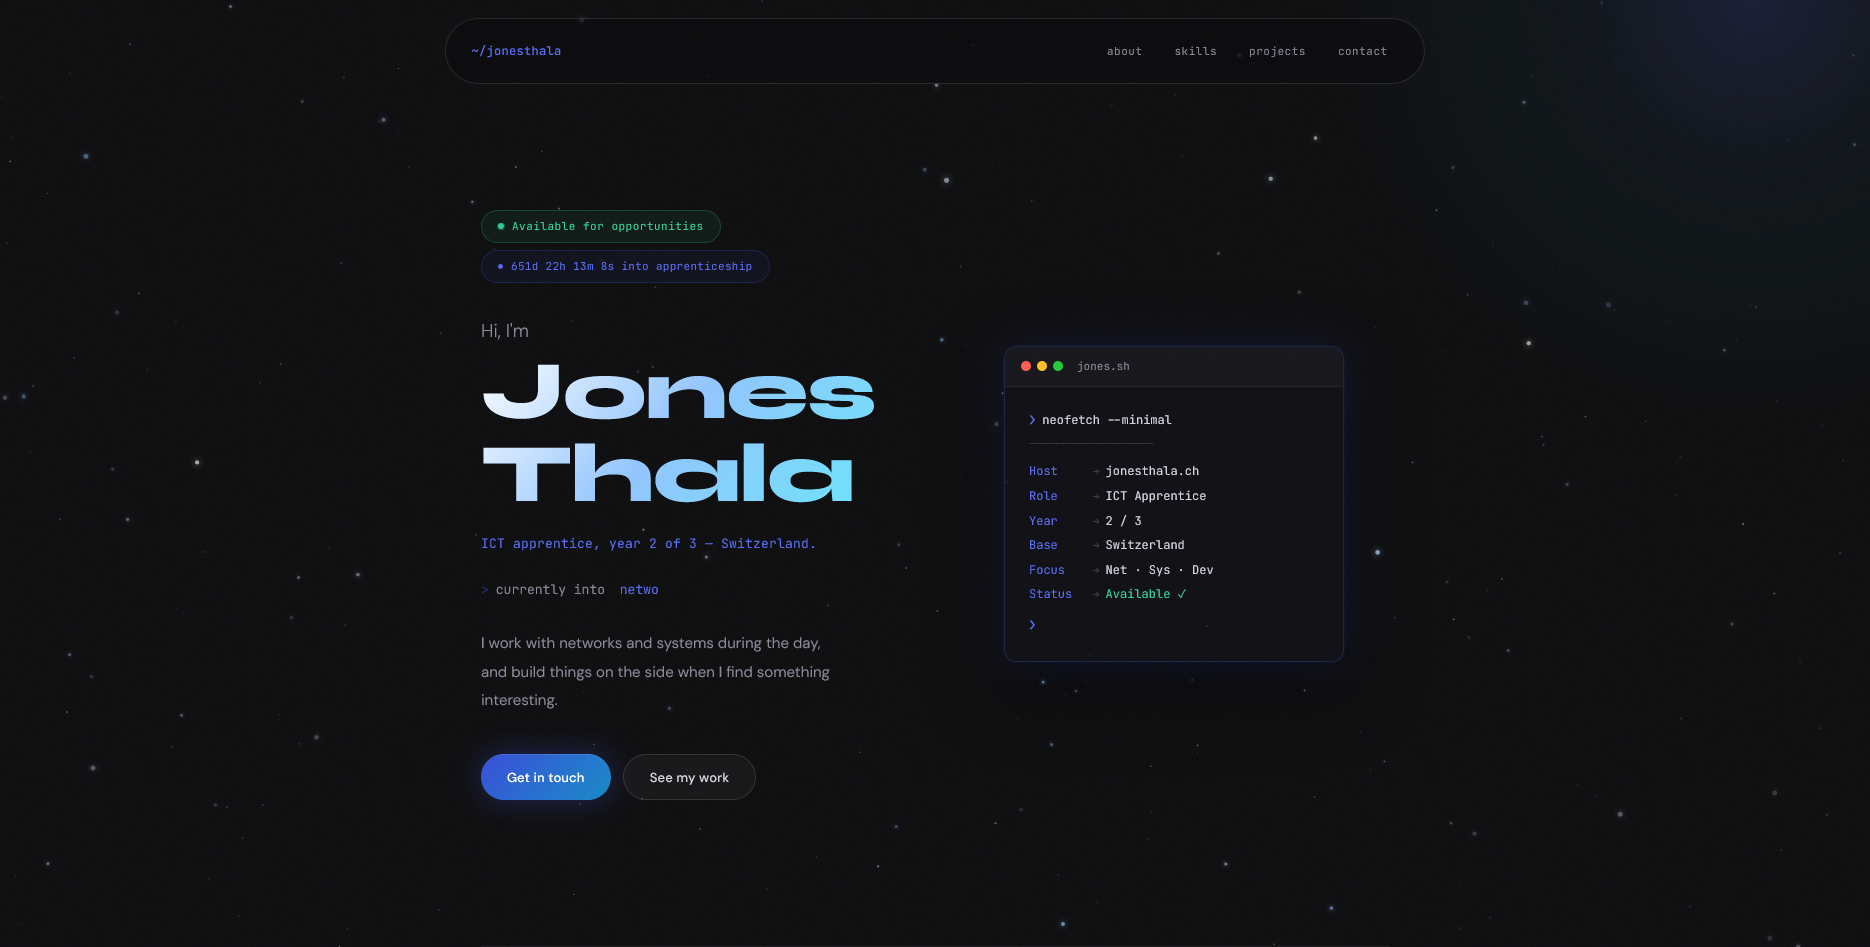
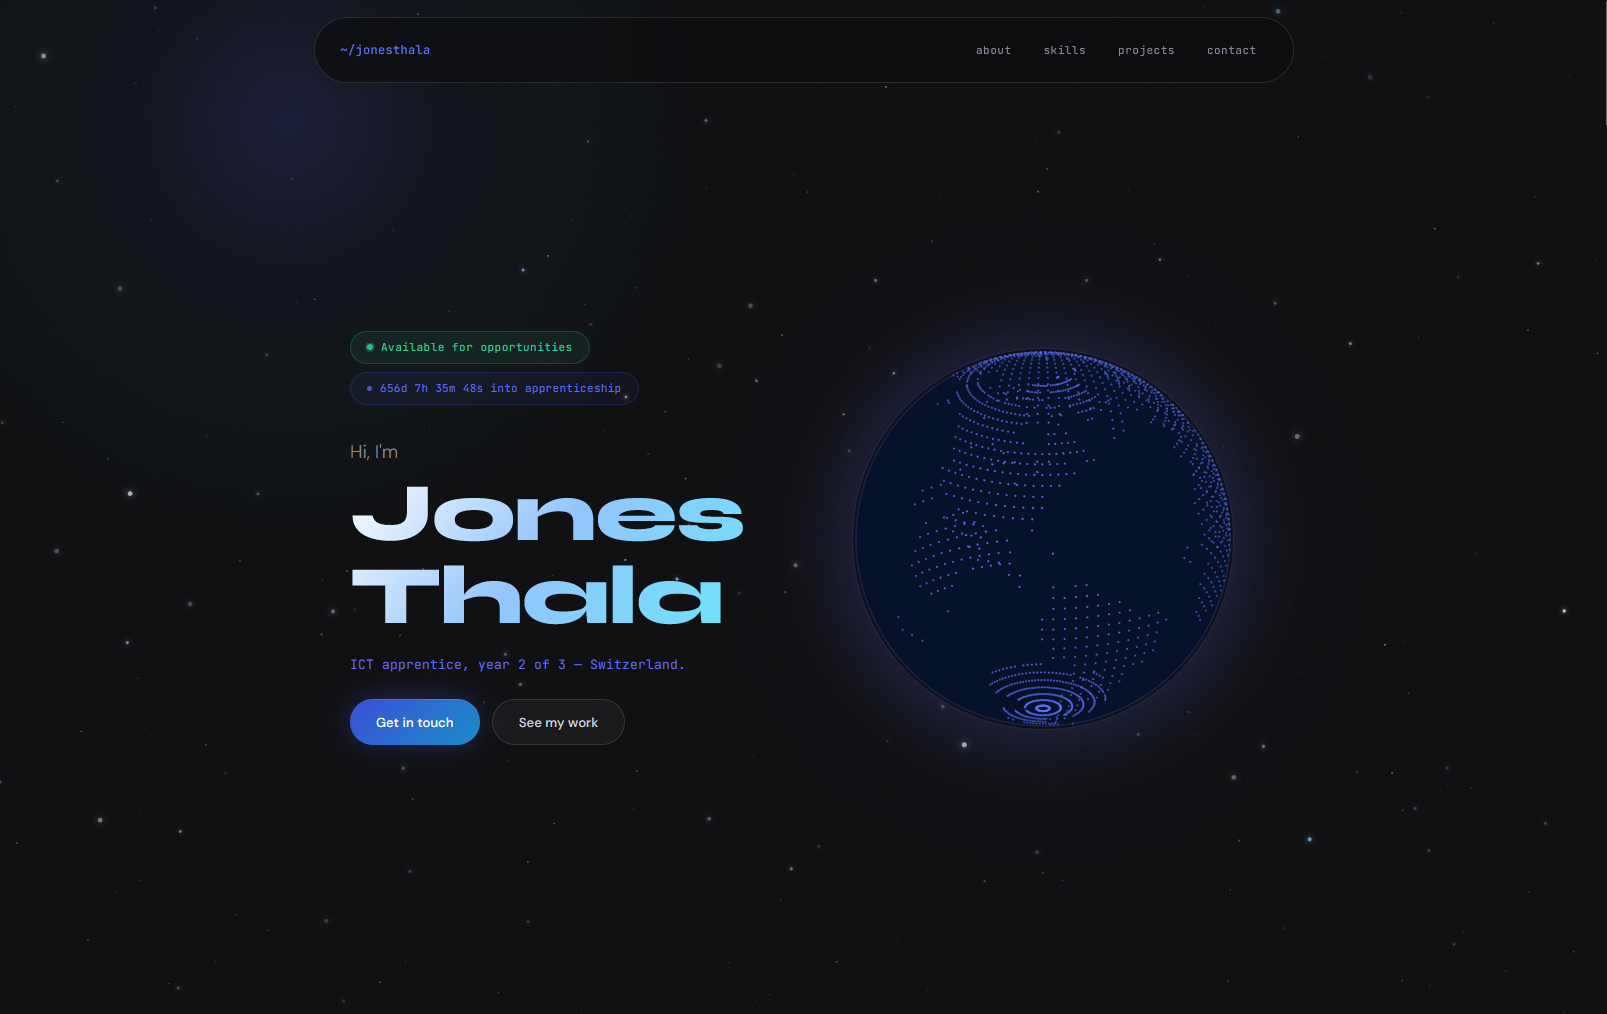
Standardize badges to green and add Drift
Change several project badges to 'green' in src/sections/Projects.tsx, add a new "Drift" project entry (year 2026, image /drift_ref.png, URL https://drift-ten-chi.vercel.app) and include corresponding highlights/tags. Add new asset public/drift_ref.png and update the binary public/jonesthala_ref.png.

diff --git a/src/sections/Projects.tsx b/src/sections/Projects.tsx
@@ -39,7 +39,7 @@ const projects: Project[] = [
       'Website für die Coverband Hua Foo mit Bandvorstellung, Gigs, Musikbereich und direkter Buchungsanfrage.',
     tags: ['Band Website', 'Booking', 'Event / Musik', 'Responsive'],
     highlights: ['Gigs und Musik klar sichtbar', 'Buchungsweg direkt erreichbar'],
-    badge: 'violet',
+    badge: 'green',
     featured: true,
   },
   {
@@ -54,7 +54,7 @@ const projects: Project[] = [
       'Moderne Portfolio-Website mit Galerie, Behandlungsübersicht und klarer Instagram-DM-Anfrage.',
     tags: ['Portfolio', 'Hairstyling', 'Galerie', 'Instagram Anfrage'],
     highlights: ['Hair-Resultate hochwertig präsentiert', 'Mobile Anfrage über Instagram DM'],
-    badge: 'rose',
+    badge: 'green',
     featured: true,
   },
   {
@@ -69,7 +69,7 @@ const projects: Project[] = [
       'Curated Product-Discovery-Plattform für Fashion, Tech, Outfits, Brands und Seller.',
     tags: ['Product Discovery', 'Fashion & Tech', 'Curated Finds', 'E-Commerce UI'],
     highlights: ['Produkte und Kategorien schnell scanbar', 'Direkte Weiterleitung zu Shops'],
-    badge: 'rose',
+    badge: 'green',
   },
   {
     title: 'Jones Thala',
@@ -111,7 +111,21 @@ const projects: Project[] = [
       'Automotive-inspiriertes Konzept als Spielwiese für Premium-Layouts, visuelle Hierarchie und Web-Techniken.',
     tags: ['Test Website', 'Automotive', 'Premium UI', 'Vercel'],
     highlights: ['Premium-Branding als Experiment', 'Responsive Konzeptumsetzung'],
-    badge: 'violet',
+    badge: 'green',
+  },
+  {
+    title: 'Drift',
+    type: 'Fun Project',
+    category: 'konzepte',
+    year: '2026',
+    image: '/drift_ref.png',
+    imageAlt: 'Drift Website Preview',
+    url: 'https://drift-ten-chi.vercel.app',
+    description:
+      'Dynamisches Web-Konzept mit starkem visuellem Auftritt, flüssigen Übergängen und modernem Layout.',
+    tags: ['Konzept', 'Motion', 'Premium UI', 'Vercel'],
+    highlights: ['Flüssige Animationen und Übergänge', 'Starkes visuelles Branding'],
+    badge: 'green',
   },
 ];
 
